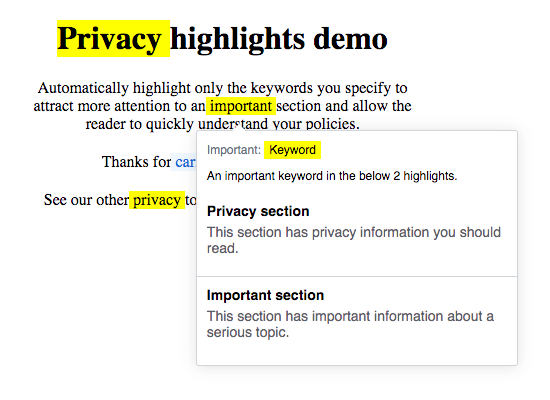
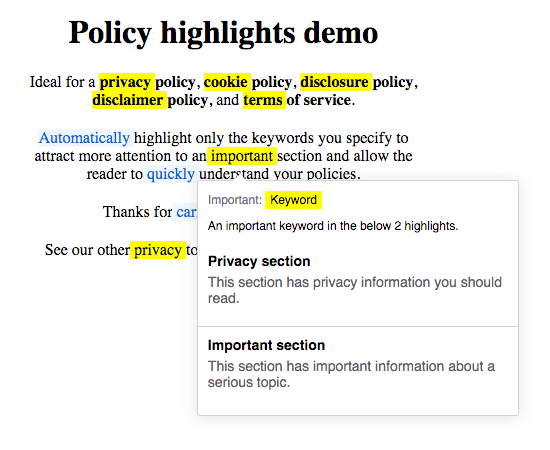
update README image and index.html

Changed region(s): [[0.0618, 0.03, 0.9582, 0.93]]

diff --git a/dist/bundle.js b/dist/bundle.js
@@ -1,1 +1,1 @@
-!function(e){function t(t){for(var n,r,i=t[0],a=t[1],u=0,c=[];u<i.length;u++)r=i[u],o[r]&&c.push(o[r][0]),o[r]=0;for(n in a)Object.prototype.hasOwnProperty.call(a,n)&&(e[n]=a[n]);for(l&&l(t);c.length;)c.shift()()}var n={},r={0:0},o={0:0};function i(t){if(n[t])return n[t].exports;var r=n[t]={i:t,l:!1,exports:{}};return e[t].call(r.exports,r,r.exports,i),r.l=!0,r.exports}i.e=function(e){var t=[];r[e]?t.push(r[e]):0!==r[e]&&{1:1}[e]&&t.push(r[e]=new Promise(function(t,n){for(var o=e+".c39132be8d54c0faa7b8.css",a=i.p+o,u=document.getElementsByTagName("link"),c=0;c<u.length;c++){var l=(d=u[c]).getAttribute("data-href")||d.getAttribute("href");if("stylesheet"===d.rel&&(l===o||l===a))return t()}var f=document.getElementsByTagName("style");for(c=0;c<f.length;c++){var d;if((l=(d=f[c]).getAttribute("data-href"))===o||l===a)return t()}var s=document.createElement("link");s.rel="stylesheet",s.type="text/css",s.onload=t,s.onerror=function(t){var o=t&&t.target&&t.target.src||a,i=new Error("Loading CSS chunk "+e+" failed.\n("+o+")");i.request=o,delete r[e],s.parentNode.removeChild(s),n(i)},s.href=a,document.getElementsByTagName("head")[0].appendChild(s)}).then(function(){r[e]=0}));var n=o[e];if(0!==n)if(n)t.push(n[2]);else{var a=new Promise(function(t,r){n=o[e]=[t,r]});t.push(n[2]=a);var u,c=document.createElement("script");c.charset="utf-8",c.timeout=120,i.nc&&c.setAttribute("nonce",i.nc),c.src=function(e){return i.p+""+({}[e]||e)+"."+{1:"5924224e72e025c9cb21",2:"cdcc79a7ae6e4592b648"}[e]+".js"}(e),u=function(t){c.onerror=c.onload=null,clearTimeout(l);var n=o[e];if(0!==n){if(n){var r=t&&("load"===t.type?"missing":t.type),i=t&&t.target&&t.target.src,a=new Error("Loading chunk "+e+" failed.\n("+r+": "+i+")");a.type=r,a.request=i,n[1](a)}o[e]=void 0}};var l=setTimeout(function(){u({type:"timeout",target:c})},12e4);c.onerror=c.onload=u,document.head.appendChild(c)}return Promise.all(t)},i.m=e,i.c=n,i.d=function(e,t,n){i.o(e,t)||Object.defineProperty(e,t,{enumerable:!0,get:n})},i.r=function(e){"undefined"!=typeof Symbol&&Symbol.toStringTag&&Object.defineProperty(e,Symbol.toStringTag,{value:"Module"}),Object.defineProperty(e,"__esModule",{value:!0})},i.t=function(e,t){if(1&t&&(e=i(e)),8&t)return e;if(4&t&&"object"==typeof e&&e&&e.__esModule)return e;var n=Object.create(null);if(i.r(n),Object.defineProperty(n,"default",{enumerable:!0,value:e}),2&t&&"string"!=typeof e)for(var r in e)i.d(n,r,function(t){return e[t]}.bind(null,r));return n},i.n=function(e){var t=e&&e.__esModule?function(){return e.default}:function(){return e};return i.d(t,"a",t),t},i.o=function(e,t){return Object.prototype.hasOwnProperty.call(e,t)},i.p="/dist/",i.oe=function(e){throw console.error(e),e};var a=window.webpackJsonp=window.webpackJsonp||[],u=a.push.bind(a);a.push=t,a=a.slice();for(var c=0;c<a.length;c++)t(a[c]);var l=u;i(i.s="gX7E")}({gX7E:function(e,t,n){function r(e,t,n){return t in e?Object.defineProperty(e,t,{value:n,enumerable:!0,configurable:!0,writable:!0}):e[t]=n,e}"weareprivacy"in window||(window.weareprivacy={}),"policyHighlights"in window.weareprivacy||n.e(2).then(n.t.bind(null,"fcXd",3)).then(function(e){n.e(1).then(n.bind(null,"tjUo")).then(function(t){window.weareprivacy.policyHighlights=new t.default(function(e){for(var t=1;t<arguments.length;t++){var n=null!=arguments[t]?arguments[t]:{},o=Object.keys(n);"function"==typeof Object.getOwnPropertySymbols&&(o=o.concat(Object.getOwnPropertySymbols(n).filter(function(e){return Object.getOwnPropertyDescriptor(n,e).enumerable}))),o.forEach(function(t){r(e,t,n[t])})}return e}({},e.default,window.POLICY_HIGHLIGHTS_CONFIG))})})}});
+!function(e){function t(t){for(var n,r,i=t[0],a=t[1],u=0,c=[];u<i.length;u++)r=i[u],o[r]&&c.push(o[r][0]),o[r]=0;for(n in a)Object.prototype.hasOwnProperty.call(a,n)&&(e[n]=a[n]);for(l&&l(t);c.length;)c.shift()()}var n={},r={0:0},o={0:0};function i(t){if(n[t])return n[t].exports;var r=n[t]={i:t,l:!1,exports:{}};return e[t].call(r.exports,r,r.exports,i),r.l=!0,r.exports}i.e=function(e){var t=[];r[e]?t.push(r[e]):0!==r[e]&&{1:1}[e]&&t.push(r[e]=new Promise(function(t,n){for(var o=e+".aaffa0b5c1f1d729e1a4.css",a=i.p+o,u=document.getElementsByTagName("link"),c=0;c<u.length;c++){var l=(d=u[c]).getAttribute("data-href")||d.getAttribute("href");if("stylesheet"===d.rel&&(l===o||l===a))return t()}var f=document.getElementsByTagName("style");for(c=0;c<f.length;c++){var d;if((l=(d=f[c]).getAttribute("data-href"))===o||l===a)return t()}var s=document.createElement("link");s.rel="stylesheet",s.type="text/css",s.onload=t,s.onerror=function(t){var o=t&&t.target&&t.target.src||a,i=new Error("Loading CSS chunk "+e+" failed.\n("+o+")");i.request=o,delete r[e],s.parentNode.removeChild(s),n(i)},s.href=a,document.getElementsByTagName("head")[0].appendChild(s)}).then(function(){r[e]=0}));var n=o[e];if(0!==n)if(n)t.push(n[2]);else{var a=new Promise(function(t,r){n=o[e]=[t,r]});t.push(n[2]=a);var u,c=document.createElement("script");c.charset="utf-8",c.timeout=120,i.nc&&c.setAttribute("nonce",i.nc),c.src=function(e){return i.p+""+({}[e]||e)+"."+{1:"5924224e72e025c9cb21",2:"cdcc79a7ae6e4592b648"}[e]+".js"}(e),u=function(t){c.onerror=c.onload=null,clearTimeout(l);var n=o[e];if(0!==n){if(n){var r=t&&("load"===t.type?"missing":t.type),i=t&&t.target&&t.target.src,a=new Error("Loading chunk "+e+" failed.\n("+r+": "+i+")");a.type=r,a.request=i,n[1](a)}o[e]=void 0}};var l=setTimeout(function(){u({type:"timeout",target:c})},12e4);c.onerror=c.onload=u,document.head.appendChild(c)}return Promise.all(t)},i.m=e,i.c=n,i.d=function(e,t,n){i.o(e,t)||Object.defineProperty(e,t,{enumerable:!0,get:n})},i.r=function(e){"undefined"!=typeof Symbol&&Symbol.toStringTag&&Object.defineProperty(e,Symbol.toStringTag,{value:"Module"}),Object.defineProperty(e,"__esModule",{value:!0})},i.t=function(e,t){if(1&t&&(e=i(e)),8&t)return e;if(4&t&&"object"==typeof e&&e&&e.__esModule)return e;var n=Object.create(null);if(i.r(n),Object.defineProperty(n,"default",{enumerable:!0,value:e}),2&t&&"string"!=typeof e)for(var r in e)i.d(n,r,function(t){return e[t]}.bind(null,r));return n},i.n=function(e){var t=e&&e.__esModule?function(){return e.default}:function(){return e};return i.d(t,"a",t),t},i.o=function(e,t){return Object.prototype.hasOwnProperty.call(e,t)},i.p="/dist/",i.oe=function(e){throw console.error(e),e};var a=window.webpackJsonp=window.webpackJsonp||[],u=a.push.bind(a);a.push=t,a=a.slice();for(var c=0;c<a.length;c++)t(a[c]);var l=u;i(i.s="gX7E")}({gX7E:function(e,t,n){function r(e,t,n){return t in e?Object.defineProperty(e,t,{value:n,enumerable:!0,configurable:!0,writable:!0}):e[t]=n,e}"weareprivacy"in window||(window.weareprivacy={}),"policyHighlights"in window.weareprivacy||n.e(2).then(n.t.bind(null,"fcXd",3)).then(function(e){n.e(1).then(n.bind(null,"tjUo")).then(function(t){window.weareprivacy.policyHighlights=new t.default(function(e){for(var t=1;t<arguments.length;t++){var n=null!=arguments[t]?arguments[t]:{},o=Object.keys(n);"function"==typeof Object.getOwnPropertySymbols&&(o=o.concat(Object.getOwnPropertySymbols(n).filter(function(e){return Object.getOwnPropertyDescriptor(n,e).enumerable}))),o.forEach(function(t){r(e,t,n[t])})}return e}({},e.default,window.POLICY_HIGHLIGHTS_CONFIG))})})}});

diff --git a/dist/index.html b/dist/index.html
@@ -20,7 +20,8 @@
     </style>
 </head>
 <body>
-    <h1>Privacy highlights demo</h1>
+    <h1>Policy highlights demo</h1>
+    <p>Ideal for a <b>privacy policy</b>, <b>cookie policy</b>, <b>disclosure policy</b>, <b>disclaimer policy</b>, and <b>terms of service</b>.</p>
     <p>Automatically highlight only the keywords you specify to attract more attention to an important section and allow the reader to quickly understand your policies.</p>
     <p>Thanks for caring about your privacy.</p>
     <p>See our other privacy tools on <a href="https://weareprivacy.com" target="_blank">https://weareprivacy.com</a></p>
@@ -34,13 +35,13 @@
                 name: "Privacy section",
                 description: "This section has privacy information you should read.",
                 keywords: "privacy,important,privacy",
-                actions: "caring"
+                actions: "automatically"
             },
             {
                 name: "Important section",
                 description: "This section has important information about a serious topic.",
-                keywords: "important",
-                actions: "caring"
+                keywords: "privacy,cookie,disclosure,disclaimer,terms,important",
+                actions: "caring,quickly"
             }
         ]
     }

diff --git a/src/index.html b/src/index.html
@@ -20,7 +20,8 @@
     </style>
 </head>
 <body>
-    <h1>Privacy highlights demo</h1>
+    <h1>Policy highlights demo</h1>
+    <p>Ideal for a <b>privacy policy</b>, <b>cookie policy</b>, <b>disclosure policy</b>, <b>disclaimer policy</b>, and <b>terms of service</b>.</p>
     <p>Automatically highlight only the keywords you specify to attract more attention to an important section and allow the reader to quickly understand your policies.</p>
     <p>Thanks for caring about your privacy.</p>
     <p>See our other privacy tools on <a href="https://weareprivacy.com" target="_blank">https://weareprivacy.com</a></p>
@@ -34,13 +35,13 @@
                 name: "Privacy section",
                 description: "This section has privacy information you should read.",
                 keywords: "privacy,important,privacy",
-                actions: "caring"
+                actions: "automatically"
             },
             {
                 name: "Important section",
                 description: "This section has important information about a serious topic.",
-                keywords: "important",
-                actions: "caring"
+                keywords: "privacy,cookie,disclosure,disclaimer,terms,important",
+                actions: "caring,quickly"
             }
         ]
     }

diff --git a/README.md b/README.md
@@ -1,5 +1,5 @@
 <p align="center">
-  <img width="550px" height="400px" src="./static/readme.png">
+  <img width="550px" height="450px" src="./static/readme.png">
 </p>
 
 <h1 align="center">Policy Highlights</h1>
